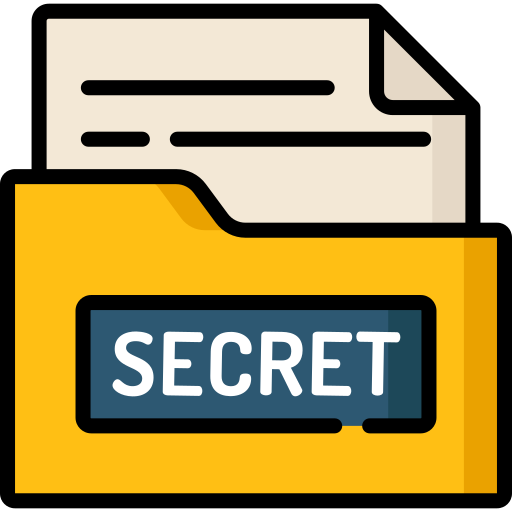
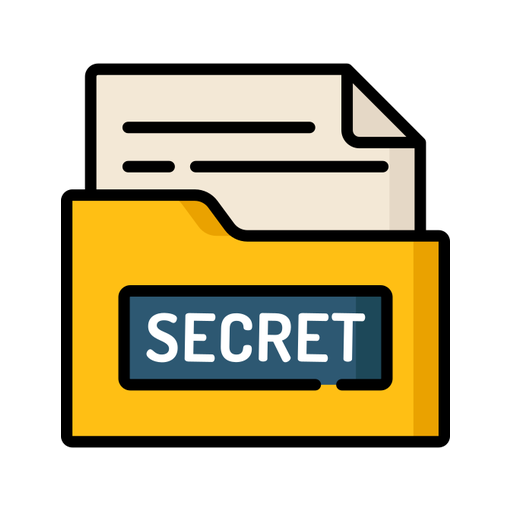
iconos: Expedientes con el ícono SECRET centrado y nítido; íconos network-first
- icon-512.png: el dibujo recortado y centrado con 12% de margen sobre blanco,
  sin transparencia (antes tocaba los bordes y el lanzador lo recortaba).
- icon-192.png: reducido desde el 512 nuevo (el anterior pixelaba).
- sw.js: icon-192/512 van en CRITICOS (network-first), igual que los logos: un
  celular con caché seguía mostrando el ícono anterior después del deploy.
- tests/logos.test.mjs: exige tamaños y RGB sin alfa, y que los íconos y el
  manifest estén network-first (falla con el sw.js de HEAD).

Un ícono ya agregado a la pantalla de inicio no se actualiza solo: hay que
quitar el acceso y volver a agregarlo.

Claude-Session: https://claude.ai/code/session_01YQcZka8E6foCwz8ybDHqSa

diff --git a/public/sw.js b/public/sw.js
@@ -67,7 +67,10 @@ self.addEventListener('fetch', (event) => {
   // índigo de unos milisegundos" al cambiar de pantalla. No estaba en la
   // página —se grabó la navegación cuadro por cuadro y no hay un solo pixel
   // azulado en el viewport—, estaba en el manifest cacheado.
-  const CRITICOS = ['/header.js', '/confirmar-cambios.js', '/design-system.css', '/ui-kit.css', '/manifest.json'];
+  // Los íconos de inicio también van acá: se reemplazan en el mismo nombre
+  // (icon-192.png / icon-512.png), igual que los logos. Con stale-while-revalidate
+  // el celular seguía mostrando el ícono anterior una visita más.
+  const CRITICOS = ['/header.js', '/confirmar-cambios.js', '/design-system.css', '/ui-kit.css', '/manifest.json', '/icon-192.png', '/icon-512.png'];
   // Los logos (public/logos/*) también van network-first. Se reemplazan en el
   // mismo nombre de archivo (ken.png, funes.png…): con stale-while-revalidate
   // un dispositivo que ya los cacheó mostraba la versión anterior en la visita

diff --git a/CLAUDE.md b/CLAUDE.md
@@ -951,6 +951,12 @@ service worker real (visita 3 de 4: versión vieja, en ambos viewports).
   siguiente al deploy ya muestra el logo nuevo).
 - **Regla**: si algo visible cambia sin cambiar de nombre (logos, íconos), no va
   en stale-while-revalidate. Ver la lista de network-first arriba.
+- **Íconos de inicio** (`icon-192.png`, `icon-512.png`): van en `CRITICOS` de
+  `sw.js`, y `tests/logos.test.mjs` lo exige. El 512 es el original (dibujo
+  recortado, centrado con 12% de margen sobre blanco, sin transparencia); el 192
+  se reduce desde ese 512, no desde el 192 anterior, que pixelaba. Un ícono ya
+  instalado en la pantalla de inicio **no se actualiza solo**: hay que quitar el
+  acceso y volver a agregarlo.
 - **Test**: `tests/logos-dispositivos.test.mjs` (dos viewports, caché previa,
   sin conexión, dispositivo sin caché). Corre dentro de `test:concurrencia`.
   Mide las dimensiones del `<img>` pintado, no colores.
